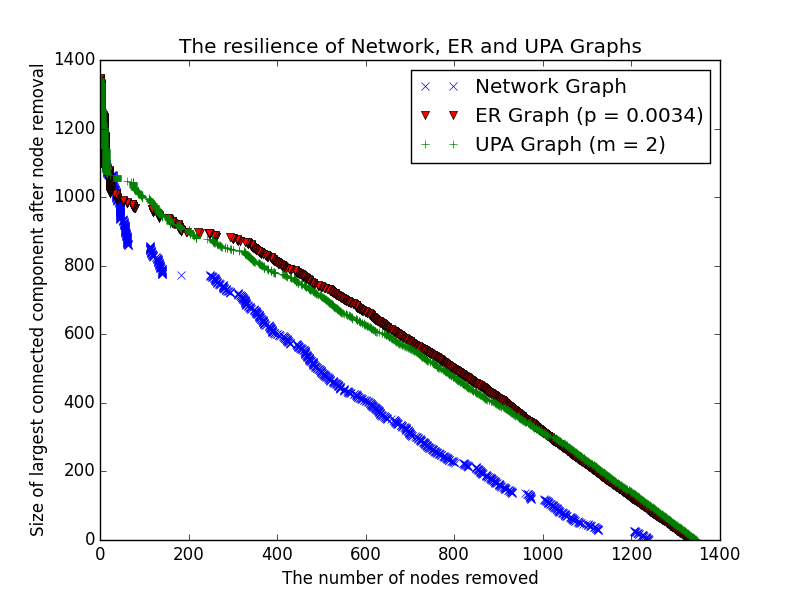
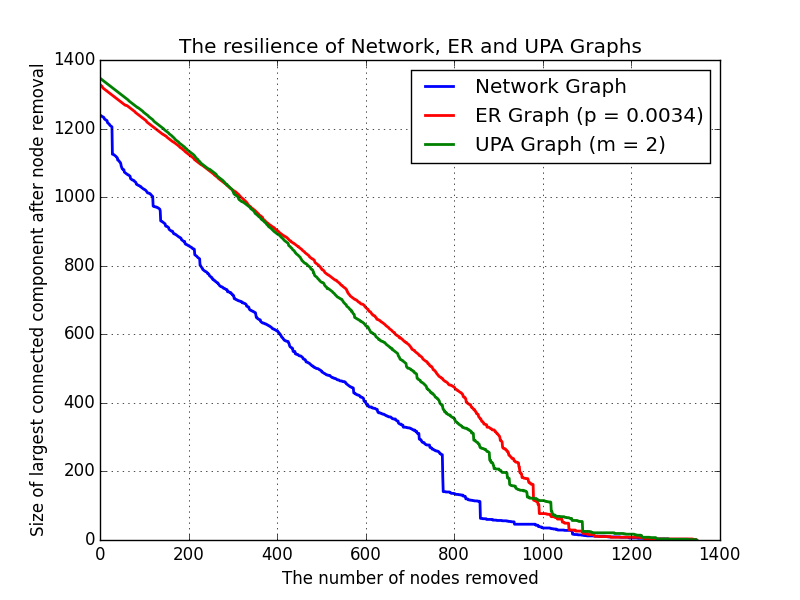
Question 3 done

diff --git a/Computer Network Analysis.py b/Computer Network Analysis.py
@@ -15,7 +15,6 @@ from collections import deque
 import time
 import math
 import matplotlib.pyplot as plt
-import matplotlib.lines
 
 NETWORK_URL = "http://storage.googleapis.com/codeskulptor-alg/alg_rf7.txt"
 
@@ -260,23 +259,81 @@ def compute_resilience(ugraph, attack_order):
     return resilience
 
 
+def fast_targeted_order(ugraph):
+    """
+    Quickly compute a targeted attack order consisting of nodes of maximal degree
+    """
+    num_nodes = len(ugraph)
+    order = []
+    degree_sets = [ set([]) for _i in range(num_nodes)]     # Initial an empty degree sets
+    for node in ugraph.keys():      # Create the degree_set
+        degree = len(ugraph[node])
+        degree_sets[degree].add(node)
+    for degree in range(num_nodes- 1, 0, -1):
+        while len(degree_sets[degree]) != 0:
+            tail = degree_sets[degree].pop()
+            for head in ugraph[tail]:
+                degree = len(ugraph[head])
+                degree_sets[degree].remove(head)
+                degree_sets[degree - 1].add(head)
+                ugraph[head].remove(tail)
+            ugraph.pop(tail)
+            order.append(tail)
+    order.extend(ugraph.keys())
+    return order
 
-network_graph = load_graph(NETWORK_URL)
-uer_graph = UER_graph(1347, 0.0034)
-upa_graph = UPA_graph(1347, 2)
+
+# test_graph = UER_graph(1000, 1)
+# # test_graph = UPA_graph(1000, 5)
+# time0 = time.time()
+# order1 = targeted_order(test_graph)
+# time1 = time.time()
+# order2 = fast_targeted_order(test_graph)
+# time2 = time.time()
+# print "target order time = ", time1- time0
+# print "faster target order time = ", time2 - time1
 
 
-# Question 1, plot the resilience for all these graph versus number of nodes removed.
-attack_order = random_order(uer_graph)
-x_value = range(len(attack_order) + 1)
-network_res = compute_resilience(network_graph, attack_order)
-uer_res = compute_resilience(uer_graph, attack_order)
-upa_res = compute_resilience(upa_graph, attack_order)
-plt.plot(network_res, x_value, 'bx', lw = 0, label = 'Network Graph')
-plt.plot(uer_res, x_value, 'rv', lw = 0, label='ER Graph (p = 0.0034)')
-plt.plot(upa_res, x_value, 'g+', lw = 0, label = 'UPA Graph (m = 2)')
-plt.xlabel('The number of nodes removed')
-plt.ylabel('Size of largest connected component after node removal')
-plt.title('The resilience of Network, ER and UPA Graphs')
-plt.legend()
-plt.show()
+# network_graph = load_graph(NETWORK_URL)
+# uer_graph = UER_graph(1347, 0.0034)
+# upa_graph = UPA_graph(1347, 2)
+#
+#
+# # Question 1, plot the resilience for all these graph versus number of nodes removed.
+# attack_order = random_order(uer_graph)
+# x_value = range(len(attack_order) + 1)
+# network_res = compute_resilience(network_graph, attack_order)
+# uer_res = compute_resilience(uer_graph, attack_order)
+# upa_res = compute_resilience(upa_graph, attack_order)
+# plt.grid()
+# plt.plot(x_value, network_res, '-b', lw = 2, label = 'Network Graph')
+# plt.plot(x_value, uer_res, '-r', lw = 2, label='ER Graph (p = 0.0034)')
+# plt.plot(x_value, upa_res, '-g', lw = 2, label = 'UPA Graph (m = 2)')
+# plt.xlabel('The number of nodes removed')
+# plt.ylabel('Size of largest connected component after node removal')
+# plt.title('The resilience of Network, ER and UPA Graphs')
+# plt.legend()
+# plt.show()
+
+# # Question 2, analyze the running time of these two methods on UPA graphs of size n with m=5.
+# slow_running_times = []
+# fast_running_times = []
+# for final_num in range(10, 1000, 10):
+#     upa_graph = UPA_graph(final_num, 5)
+#     time0 = time.time()
+#     slow_order = targeted_order(upa_graph)
+#     time1 = time.time()
+#     fast_order = fast_targeted_order(upa_graph)
+#     time2 = time.time()
+#     slow_running_times.append(time1 - time0)
+#     fast_running_times.append(time2 - time1)
+# print 'slow', slow_running_times
+# print 'fast', fast_running_times
+# plt.plot(range(10, 1000, 10), slow_running_times, 'r', lw = 2, label = 'Provided target order generation method')
+# plt.plot(range(10, 1000, 10), fast_running_times, 'g', lw = 2, label = 'Fast target order generation method')
+# plt.legend(loc = 'upper left')
+# plt.xlabel('Size of UPA graph n')
+# plt.ylabel('Running time (unit = second)')
+# plt.title('Comparison of Running time \n for generating target order from UPA graphs  (Desktop Python)')
+# plt.grid()
+# plt.show()
